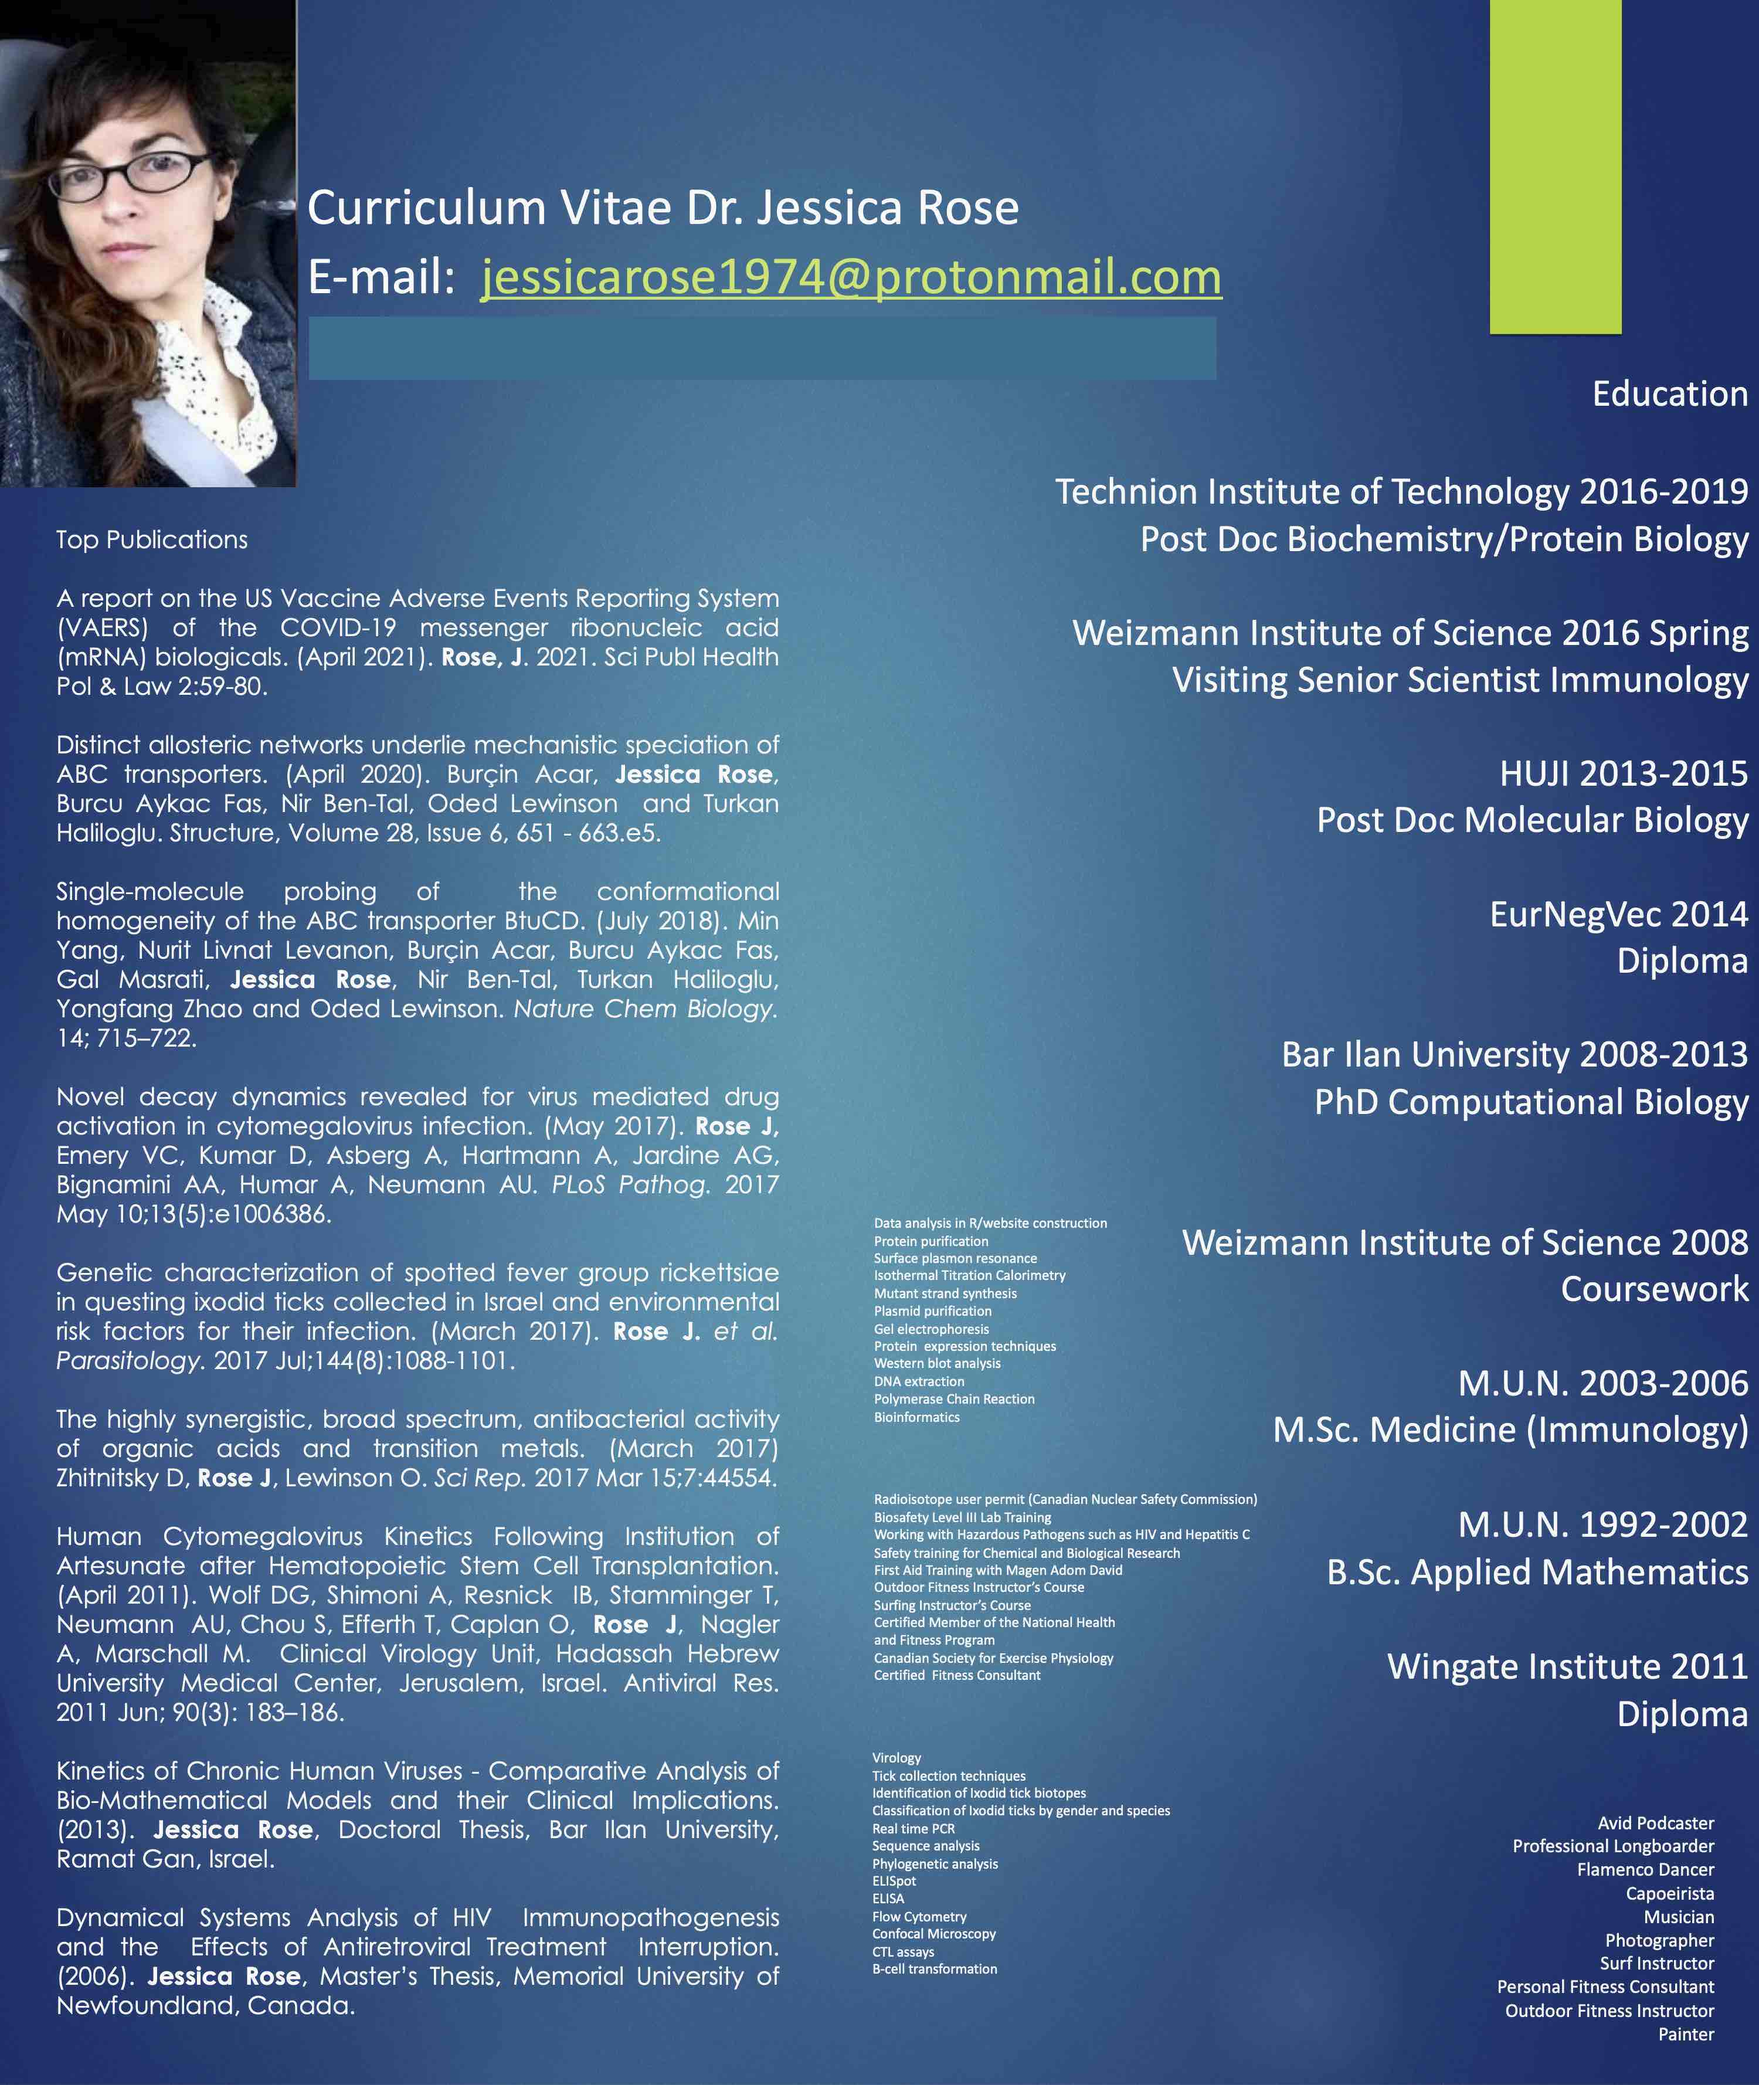
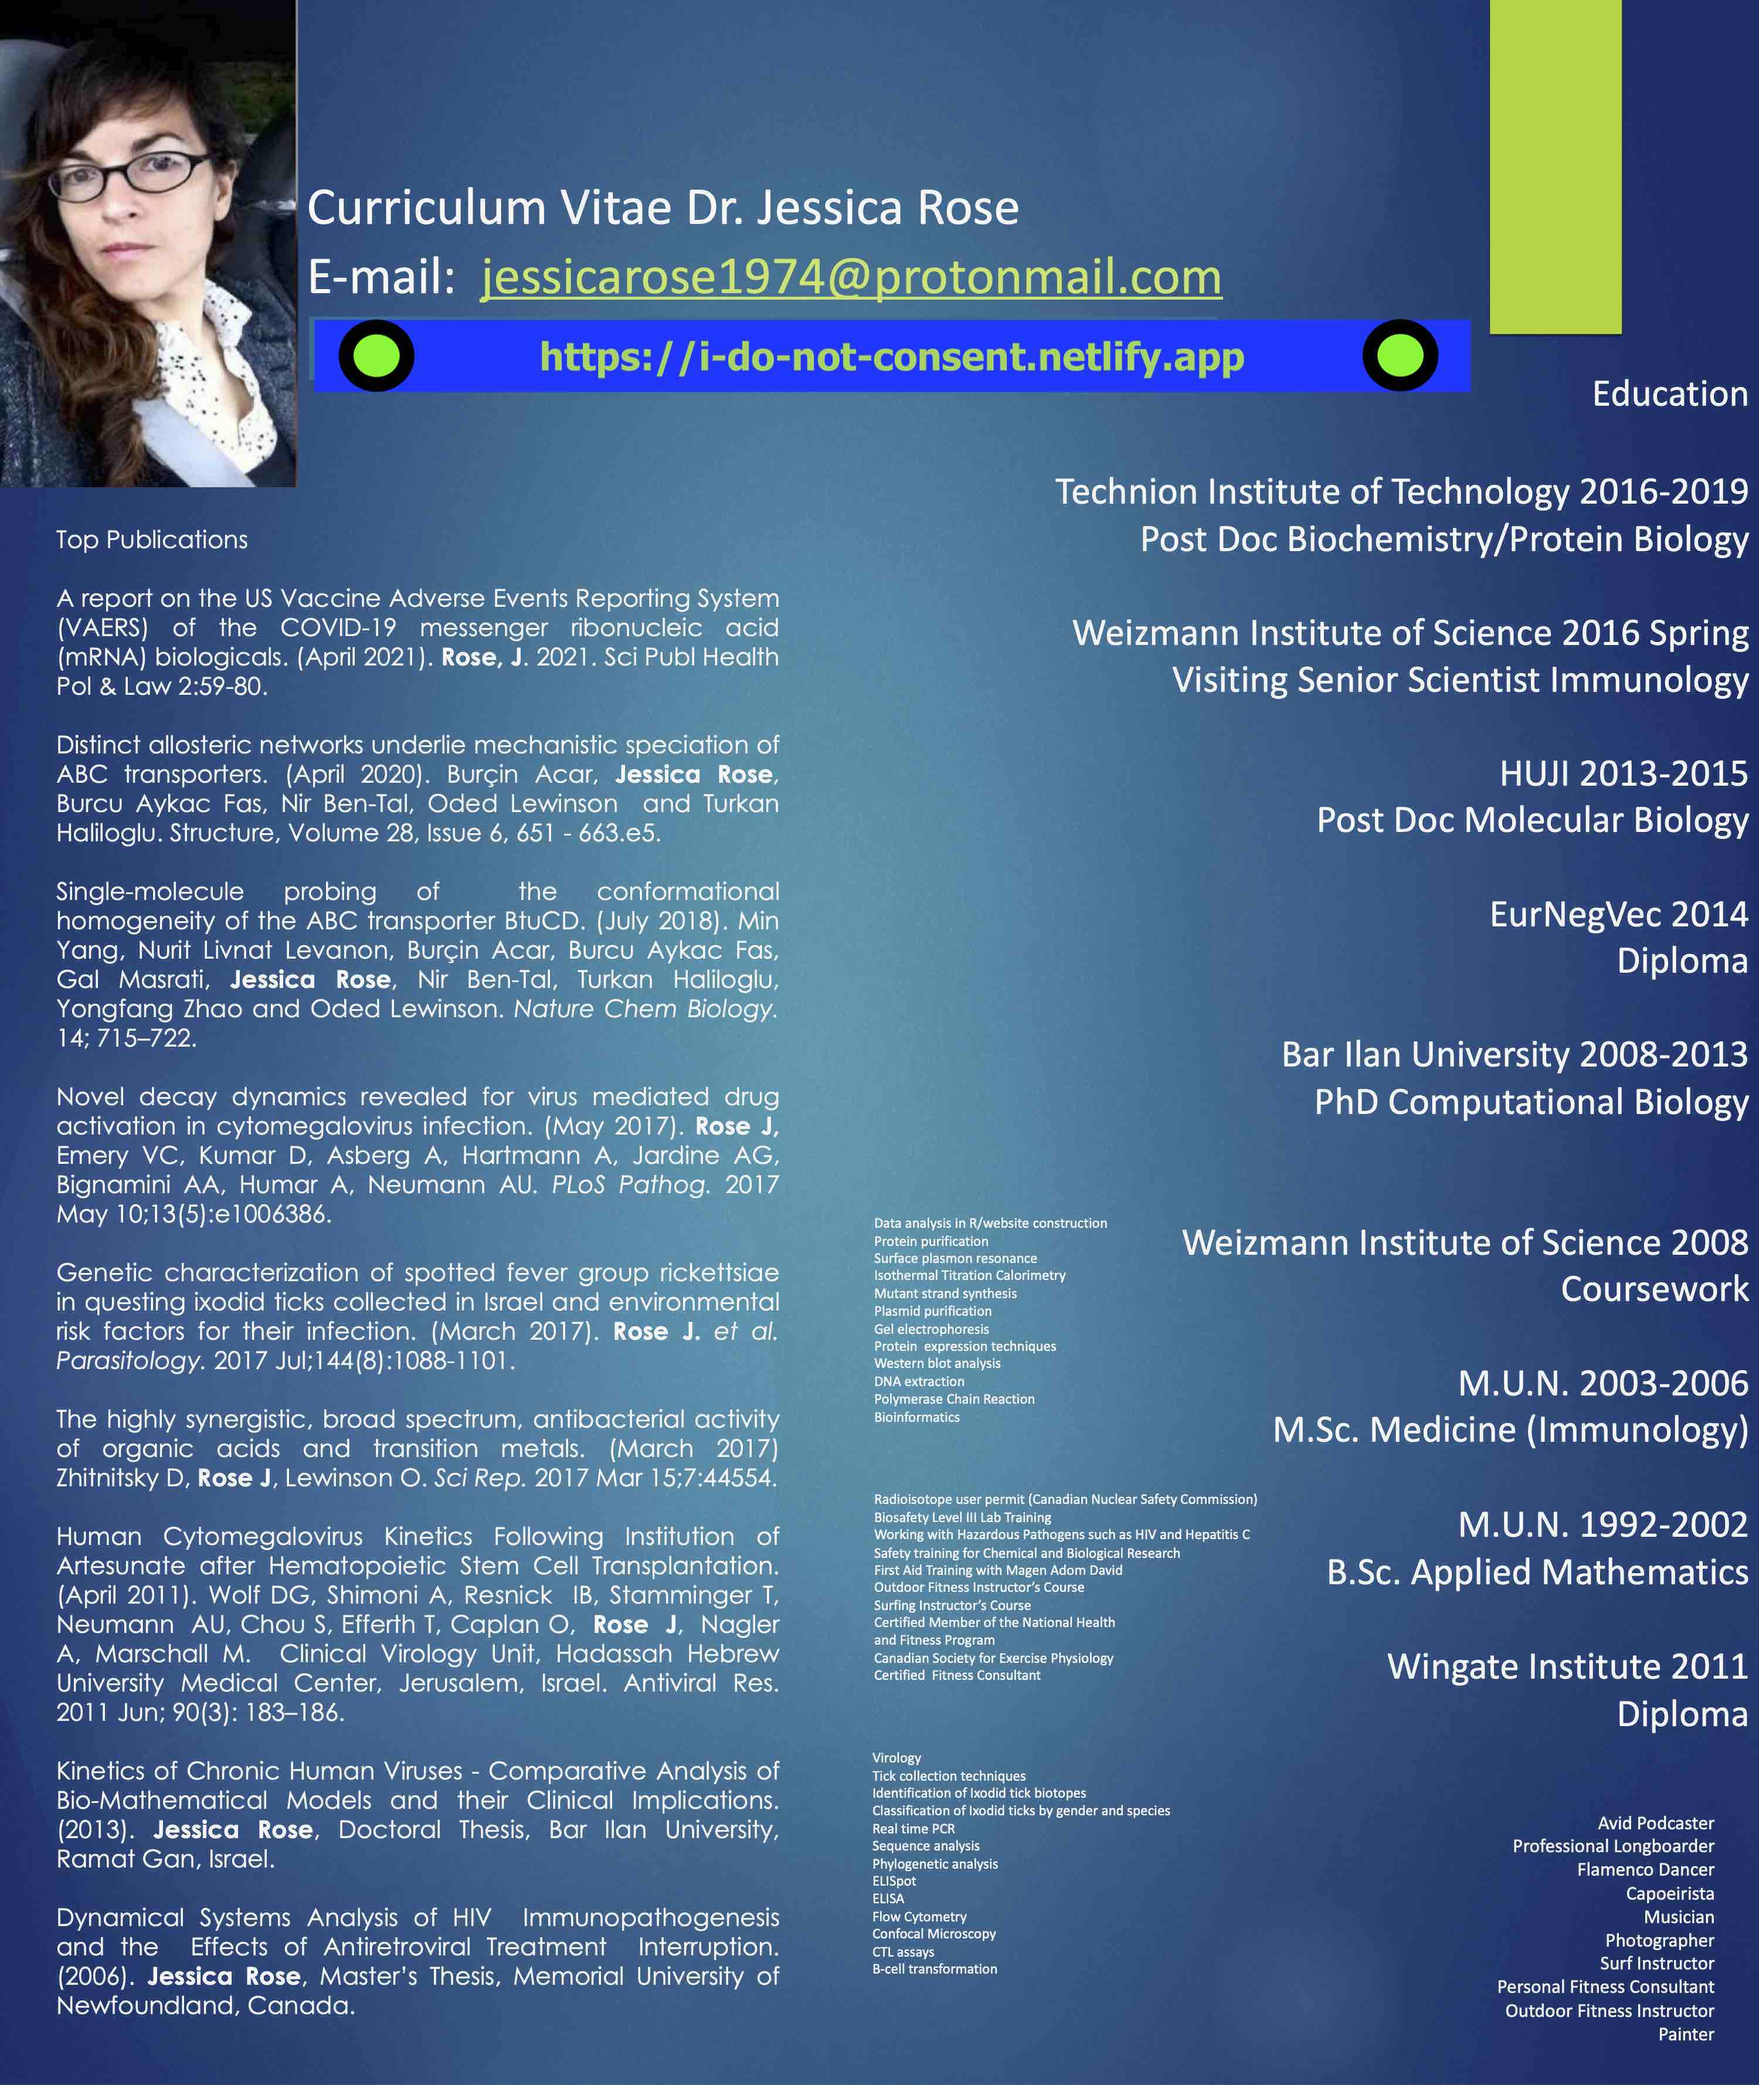
m

Changed region(s): [[0.155, 0.1561, 0.837, 0.1873]]

diff --git a/content/home/gallery/index.md b/content/home/gallery/index.md
@@ -57,4 +57,6 @@ https://www.bitchute.com/video/YVT0OXbARG7t/
 
 https://covexit.com/vaers-what-do-the-data-tell-us/
 
+https://childrenshealthdefense.org/defender/fda-vaccines-harm-people-nih-boosters-will-be-approved/?utm_source=salsa&eType=EmailBlastContent&eId=9dfa304a-ce47-46ea-aa62-be37e94f4835&fbclid=IwAR0beLNvtq_43dy7HAuwwYN_xQ_EYci1ny7R16cIzSwpweBjTQe9skXHut0
+
 
